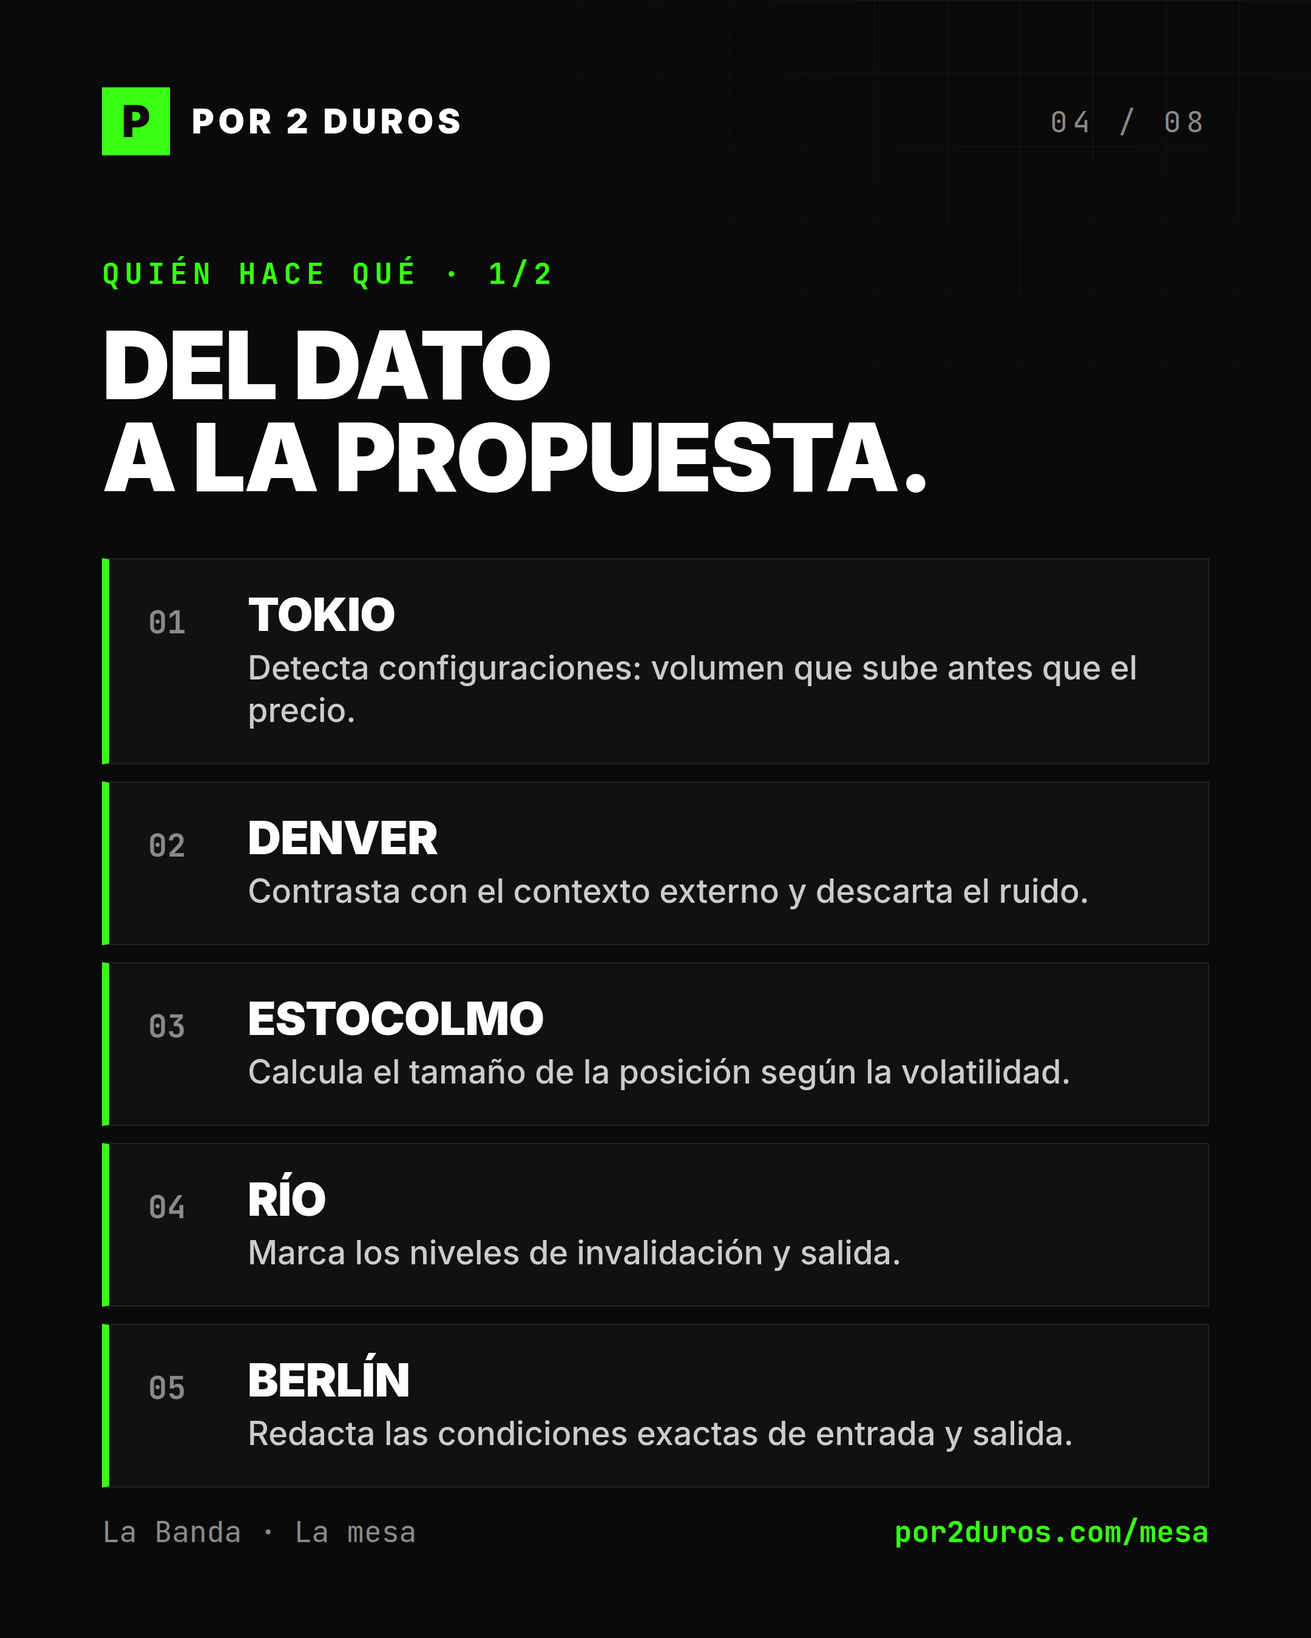
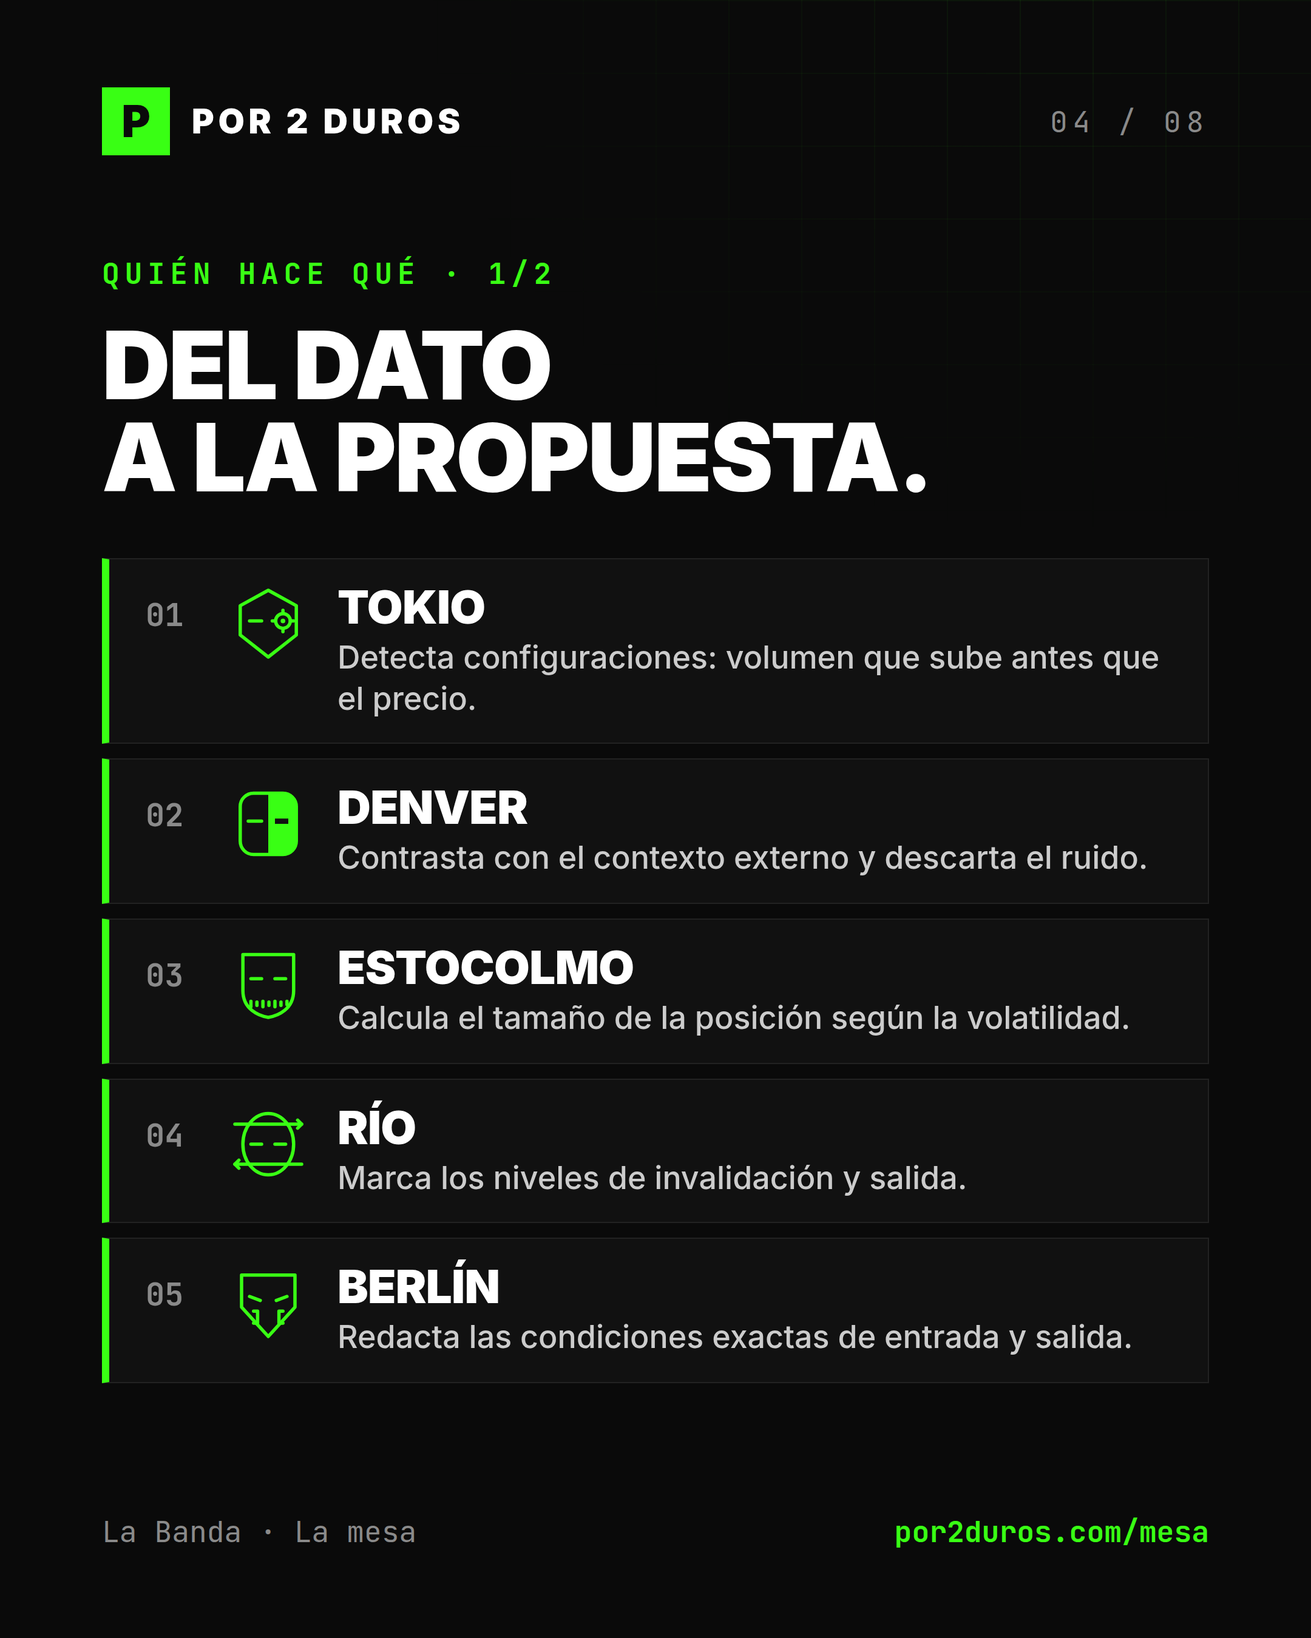
La Banda: avatares en el carrusel y en la escena de la cadena del reel
Claude-Session: https://claude.ai/code/session_015g1rGhkQ8F5aBGYVD3DwrU

diff --git a/marketing/la-banda/build/slides.html b/marketing/la-banda/build/slides.html
@@ -23,11 +23,12 @@
   .lead{font-size:36px;line-height:1.38;font-weight:500;color:var(--muted)}
   .neon{color:var(--neon)}
   .card{background:var(--card);border:1px solid var(--line)}
-  .rows{display:flex;flex-direction:column;gap:14px}
-  .row{display:flex;align-items:flex-start;gap:28px;padding:26px 32px;background:var(--card);border:1px solid var(--line);border-left:6px solid var(--neon)}
-  .row .n{font-family:"JetBrains Mono",monospace;font-weight:700;font-size:26px;color:var(--dim);width:54px;flex:none;padding-top:8px}
+  .rows{display:flex;flex-direction:column;gap:12px}
+  .row{display:flex;align-items:flex-start;gap:24px;padding:20px 30px;background:var(--card);border:1px solid var(--line);border-left:6px solid var(--neon)}
+  .row .n{font-family:"JetBrains Mono",monospace;font-weight:700;font-size:26px;color:var(--dim);width:44px;flex:none;padding-top:8px}
+  .row .av{width:66px;height:66px;flex:none;color:var(--neon)}
   .row .t{font-weight:900;font-size:38px;line-height:1.05;text-transform:uppercase;letter-spacing:-.01em}
-  .row .d{font-size:27px;margin-top:6px;color:var(--muted);font-weight:500;line-height:1.3}
+  .row .d{font-size:26px;margin-top:4px;color:var(--muted);font-weight:500;line-height:1.3}
   .tag{display:inline-block;font-family:"JetBrains Mono",monospace;font-size:22px;font-weight:700;letter-spacing:.12em;text-transform:uppercase;padding:10px 16px;border:1px solid var(--neon);color:var(--neon)}
   .btn{display:inline-block;padding:26px 44px;background:var(--neon);color:var(--bg);font-weight:900;font-size:34px;text-transform:uppercase;letter-spacing:.08em}
   .file{font-family:"JetBrains Mono",monospace;font-size:30px;line-height:1.6;padding:44px 48px;background:var(--card);border:1px solid var(--line)}
@@ -88,11 +89,11 @@
     <div class="kicker">Quién hace qué · 1/2</div>
     <div class="h1" style="font-size:78px;margin-top:22px">Del dato<br>a la propuesta.</div>
     <div class="rows" style="margin-top:44px">
-      <div class="row"><span class="n">01</span><div><div class="t">Tokio</div><div class="d">Detecta configuraciones: volumen que sube antes que el precio.</div></div></div>
-      <div class="row"><span class="n">02</span><div><div class="t">Denver</div><div class="d">Contrasta con el contexto externo y descarta el ruido.</div></div></div>
-      <div class="row"><span class="n">03</span><div><div class="t">Estocolmo</div><div class="d">Calcula el tamaño de la posición según la volatilidad.</div></div></div>
-      <div class="row"><span class="n">04</span><div><div class="t">Río</div><div class="d">Marca los niveles de invalidación y salida.</div></div></div>
-      <div class="row"><span class="n">05</span><div><div class="t">Berlín</div><div class="d">Redacta las condiciones exactas de entrada y salida.</div></div></div>
+      <div class="row"><span class="n">01</span><svg class="av" viewBox="0 0 120 120"><path fill="none" stroke="currentColor" stroke-width="5" stroke-linecap="round" stroke-linejoin="round" d="M60 10 L102 33 V77 L60 110 L18 77 V33 Z"/><path fill="none" stroke="currentColor" stroke-width="5" stroke-linecap="round" stroke-linejoin="round" d="M32 56 H50"/><circle fill="none" stroke="currentColor" stroke-width="5" stroke-linecap="round" stroke-linejoin="round" cx="82" cy="56" r="11"/><circle cx="82" cy="56" r="3.5" fill="currentColor"/><path fill="none" stroke="currentColor" stroke-width="5" stroke-linecap="round" stroke-linejoin="round" d="M82 40 v5 M82 67 v5 M66 56 h5 M93 56 h5"/></svg><div><div class="t">Tokio</div><div class="d">Detecta configuraciones: volumen que sube antes que el precio.</div></div></div>
+      <div class="row"><span class="n">02</span><svg class="av" viewBox="0 0 120 120"><rect fill="none" stroke="currentColor" stroke-width="5" stroke-linecap="round" stroke-linejoin="round" x="18" y="14" width="84" height="92" rx="20"/><path fill="currentColor" fill-rule="evenodd" d="M60 14 H82 A20 20 0 0 1 102 34 V86 A20 20 0 0 1 82 106 H60 Z M70 52 H90 V60 H70 Z"/><path fill="none" stroke="currentColor" stroke-width="5" stroke-linecap="round" stroke-linejoin="round" d="M30 56 H50"/></svg><div><div class="t">Denver</div><div class="d">Contrasta con el contexto externo y descarta el ruido.</div></div></div>
+      <div class="row"><span class="n">03</span><svg class="av" viewBox="0 0 120 120"><path fill="none" stroke="currentColor" stroke-width="5" stroke-linecap="round" stroke-linejoin="round" d="M22 16 H98 V70 C98 98 74 108 60 110 C46 108 22 98 22 70 Z"/><path fill="none" stroke="currentColor" stroke-width="5" stroke-linecap="round" stroke-linejoin="round" d="M34 52 H50 M70 52 H86"/><path fill="none" stroke="currentColor" stroke-width="5" stroke-linecap="round" stroke-linejoin="round" d="M34 94 v-8 M43 92 v-5 M52 94 v-8 M61 92 v-5 M70 94 v-8 M79 92 v-5 M88 91 v-5"/></svg><div><div class="t">Estocolmo</div><div class="d">Calcula el tamaño de la posición según la volatilidad.</div></div></div>
+      <div class="row"><span class="n">04</span><svg class="av" viewBox="0 0 120 120"><ellipse fill="none" stroke="currentColor" stroke-width="5" stroke-linecap="round" stroke-linejoin="round" cx="60" cy="60" rx="38" ry="46"/><path fill="none" stroke="currentColor" stroke-width="5" stroke-linecap="round" stroke-linejoin="round" d="M34 60 H50 M70 60 H86"/><path fill="none" stroke="currentColor" stroke-width="5" stroke-linecap="round" stroke-linejoin="round" d="M10 30 H110 M10 90 H110"/><path fill="none" stroke="currentColor" stroke-width="5" stroke-linecap="round" stroke-linejoin="round" d="M104 24 l6 6 -6 6 M16 84 l-6 6 6 6"/></svg><div><div class="t">Río</div><div class="d">Marca los niveles de invalidación y salida.</div></div></div>
+      <div class="row"><span class="n">05</span><svg class="av" viewBox="0 0 120 120"><path fill="none" stroke="currentColor" stroke-width="5" stroke-linecap="round" stroke-linejoin="round" d="M20 18 H100 V66 L60 110 L20 66 Z"/><path fill="none" stroke="currentColor" stroke-width="5" stroke-linecap="round" stroke-linejoin="round" d="M32 50 l16 6 M88 50 l-16 6"/><path fill="none" stroke="currentColor" stroke-width="5" stroke-linecap="round" stroke-linejoin="round" d="M38 72 H44 V90 H38 M82 72 H76 V90 H82"/></svg><div><div class="t">Berlín</div><div class="d">Redacta las condiciones exactas de entrada y salida.</div></div></div>
     </div>
   </div>
   <div class="pad bottom"><span>La Banda · La mesa</span><b>por2duros.com/mesa</b></div>
@@ -105,11 +106,11 @@
     <div class="kicker">Quién hace qué · 2/2</div>
     <div class="h1" style="font-size:78px;margin-top:22px">De la propuesta<br>a la orden.</div>
     <div class="rows" style="margin-top:36px;gap:12px">
-      <div class="row"><span class="n">06</span><div><div class="t">Lisboa</div><div class="d">Comprueba que los datos son frescos; si no, los devuelve.</div></div></div>
-      <div class="row"><span class="n">07</span><div><div class="t">Nairobi</div><div class="d">Comprime todo en un brief de una página.</div></div></div>
-      <div class="row" style="border-left-color:var(--rojo)"><span class="n">08</span><div><div class="t">Palermo <span class="tag" style="font-size:18px;padding:6px 12px;vertical-align:middle;border-color:var(--rojo);color:var(--rojo)">Veto</span></div><div class="d">Veta si falta liquidez, invalidación o brief. Sin su sí, no hay orden.</div></div></div>
-      <div class="row"><span class="n">09</span><div><div class="t">Helsinki</div><div class="d">Registra cada orden y cada cambio en el libro.</div></div></div>
-      <div class="row"><span class="n">10</span><div><div class="t">Profesor</div><div class="d">Cierra la sesión y redacta el informe. Siempre.</div></div></div>
+      <div class="row"><span class="n">06</span><svg class="av" viewBox="0 0 120 120"><circle fill="none" stroke="currentColor" stroke-width="5" stroke-linecap="round" stroke-linejoin="round" cx="60" cy="60" r="46"/><circle fill="none" stroke="currentColor" stroke-width="5" stroke-linecap="round" stroke-linejoin="round" cx="60" cy="38" r="12"/><path fill="none" stroke="#FFC93B" stroke-width="5" stroke-linecap="round" d="M60 38 V29 M60 38 H67"/><path fill="none" stroke="currentColor" stroke-width="5" stroke-linecap="round" stroke-linejoin="round" d="M34 70 H50 M70 70 H86"/></svg><div><div class="t">Lisboa</div><div class="d">Comprueba que los datos son frescos; si no, los devuelve.</div></div></div>
+      <div class="row"><span class="n">07</span><svg class="av" viewBox="0 0 120 120"><path fill="none" stroke="currentColor" stroke-width="5" stroke-linecap="round" stroke-linejoin="round" d="M28 12 H78 L94 28 V108 H28 Z"/><path fill="none" stroke="currentColor" stroke-width="5" stroke-linecap="round" stroke-linejoin="round" d="M78 12 V28 H94"/><path fill="none" stroke="currentColor" stroke-width="5" stroke-linecap="round" stroke-linejoin="round" d="M38 50 H52 M68 50 H82"/><path fill="none" stroke="currentColor" stroke-width="5" stroke-linecap="round" stroke-linejoin="round" d="M40 74 H80 M40 86 H80 M40 98 H64"/></svg><div><div class="t">Nairobi</div><div class="d">Comprime todo en un brief de una página.</div></div></div>
+      <div class="row" style="border-left-color:var(--rojo)"><span class="n">08</span><svg class="av" viewBox="0 0 120 120"><path fill="none" stroke="currentColor" stroke-width="5" stroke-linecap="round" stroke-linejoin="round" d="M34 14 H86 L106 34 V86 L86 106 H34 L14 86 V34 Z"/><path fill="none" stroke="currentColor" stroke-width="5" stroke-linecap="round" stroke-linejoin="round" d="M32 50 H50 M70 50 H88"/><path fill="none" stroke="#FF3B3B" stroke-width="7" stroke-linecap="round" d="M42 72 L78 96 M78 72 L42 96"/></svg><div><div class="t">Palermo <span class="tag" style="font-size:18px;padding:6px 12px;vertical-align:middle;border-color:var(--rojo);color:var(--rojo)">Veto</span></div><div class="d">Veta si falta liquidez, invalidación o brief. Sin su sí, no hay orden.</div></div></div>
+      <div class="row"><span class="n">09</span><svg class="av" viewBox="0 0 120 120"><rect fill="none" stroke="currentColor" stroke-width="5" stroke-linecap="round" stroke-linejoin="round" x="20" y="12" width="80" height="96" rx="6"/><path fill="none" stroke="currentColor" stroke-width="5" stroke-linecap="round" stroke-linejoin="round" d="M20 44 H100 M20 60 H100 M20 76 H100 M20 92 H100 M36 44 V108"/><path fill="none" stroke="currentColor" stroke-width="5" stroke-linecap="round" stroke-linejoin="round" d="M34 28 H48 M72 28 H86"/></svg><div><div class="t">Helsinki</div><div class="d">Registra cada orden y cada cambio en el libro.</div></div></div>
+      <div class="row"><span class="n">10</span><svg class="av" viewBox="0 0 120 120"><rect fill="none" stroke="currentColor" stroke-width="5" stroke-linecap="round" stroke-linejoin="round" x="16" y="14" width="88" height="92" rx="30"/><circle fill="none" stroke="currentColor" stroke-width="5" stroke-linecap="round" stroke-linejoin="round" cx="42" cy="56" r="13"/><circle fill="none" stroke="currentColor" stroke-width="5" stroke-linecap="round" stroke-linejoin="round" cx="78" cy="56" r="13"/><path fill="none" stroke="currentColor" stroke-width="5" stroke-linecap="round" stroke-linejoin="round" d="M55 56 H65 M29 54 H16 M91 54 H104"/><path fill="none" stroke="currentColor" stroke-width="5" stroke-linecap="round" stroke-linejoin="round" d="M50 88 H70"/></svg><div><div class="t">Profesor</div><div class="d">Cierra la sesión y redacta el informe. Siempre.</div></div></div>
     </div>
   </div>
   <div class="pad bottom"><span>La Banda · La mesa</span><b>por2duros.com/mesa</b></div>

diff --git a/marketing/la-banda/build/reel.html b/marketing/la-banda/build/reel.html
@@ -45,9 +45,11 @@
   #s3 .h1{font-size:84px;margin-top:20px}
   #chain{position:absolute;left:72px;right:72px;top:520px;display:flex;flex-direction:column;gap:10px}
   .ag{display:flex;align-items:center;gap:24px;height:106px;padding:0 30px;background:var(--card);border:1px solid var(--line);border-left:6px solid #333;opacity:.32}
-  .ag .n{font-family:"JetBrains Mono",monospace;font-size:24px;color:var(--dim);width:46px}
-  .ag .name{font-weight:900;font-size:38px;text-transform:uppercase;width:280px;letter-spacing:-.01em}
-  .ag .role{font-family:"JetBrains Mono",monospace;font-size:24px;color:var(--muted);flex:1;max-width:320px}
+  .ag .n{font-family:"JetBrains Mono",monospace;font-size:24px;color:var(--dim);width:40px}
+  .ag .av{width:64px;height:64px;flex:none;color:#8A8A8A}
+  .ag.on .av,.ag.done .av{color:var(--neon)}
+  .ag .name{font-weight:900;font-size:36px;text-transform:uppercase;width:250px;letter-spacing:-.01em}
+  .ag .role{font-family:"JetBrains Mono",monospace;font-size:23px;line-height:1.2;color:var(--muted);flex:1;max-width:215px}
   .ag.on{opacity:1;border-left-color:var(--neon)}
   .ag.on .name{color:var(--neon)}
   .ag.done{opacity:.85;border-left-color:var(--neon)}
@@ -116,16 +118,16 @@
       <div class="h1">Un trabajo<br>cada uno.</div>
     </div>
     <div id="chain">
-      <div class="ag"><span class="n">01</span><span class="name">Tokio</span><span class="role">busca el setup</span></div>
-      <div class="ag"><span class="n">02</span><span class="name">Denver</span><span class="role">contrasta el contexto</span></div>
-      <div class="ag"><span class="n">03</span><span class="name">Estocolmo</span><span class="role">dimensiona la posición</span></div>
-      <div class="ag"><span class="n">04</span><span class="name">Río</span><span class="role">fija stop y objetivo</span></div>
-      <div class="ag"><span class="n">05</span><span class="name">Berlín</span><span class="role">redacta las condiciones</span></div>
-      <div class="ag"><span class="n">06</span><span class="name">Lisboa</span><span class="role">comprueba la frescura</span></div>
-      <div class="ag"><span class="n">07</span><span class="name">Nairobi</span><span class="role">resume en una página</span></div>
-      <div class="ag"><span class="n">08</span><span class="name">Palermo</span><span class="role">veta o aprueba</span></div>
-      <div class="ag"><span class="n">09</span><span class="name">Helsinki</span><span class="role">registra la orden</span></div>
-      <div class="ag"><span class="n">10</span><span class="name">Profesor</span><span class="role">cierra e informa</span></div>
+      <div class="ag"><span class="n">01</span><svg class="av" viewBox="0 0 120 120"><path fill="none" stroke="currentColor" stroke-width="5" stroke-linecap="round" stroke-linejoin="round" d="M60 10 L102 33 V77 L60 110 L18 77 V33 Z"/><path fill="none" stroke="currentColor" stroke-width="5" stroke-linecap="round" stroke-linejoin="round" d="M32 56 H50"/><circle fill="none" stroke="currentColor" stroke-width="5" stroke-linecap="round" stroke-linejoin="round" cx="82" cy="56" r="11"/><circle cx="82" cy="56" r="3.5" fill="currentColor"/><path fill="none" stroke="currentColor" stroke-width="5" stroke-linecap="round" stroke-linejoin="round" d="M82 40 v5 M82 67 v5 M66 56 h5 M93 56 h5"/></svg><span class="name">Tokio</span><span class="role">busca el setup</span></div>
+      <div class="ag"><span class="n">02</span><svg class="av" viewBox="0 0 120 120"><rect fill="none" stroke="currentColor" stroke-width="5" stroke-linecap="round" stroke-linejoin="round" x="18" y="14" width="84" height="92" rx="20"/><path fill="currentColor" fill-rule="evenodd" d="M60 14 H82 A20 20 0 0 1 102 34 V86 A20 20 0 0 1 82 106 H60 Z M70 52 H90 V60 H70 Z"/><path fill="none" stroke="currentColor" stroke-width="5" stroke-linecap="round" stroke-linejoin="round" d="M30 56 H50"/></svg><span class="name">Denver</span><span class="role">contrasta el contexto</span></div>
+      <div class="ag"><span class="n">03</span><svg class="av" viewBox="0 0 120 120"><path fill="none" stroke="currentColor" stroke-width="5" stroke-linecap="round" stroke-linejoin="round" d="M22 16 H98 V70 C98 98 74 108 60 110 C46 108 22 98 22 70 Z"/><path fill="none" stroke="currentColor" stroke-width="5" stroke-linecap="round" stroke-linejoin="round" d="M34 52 H50 M70 52 H86"/><path fill="none" stroke="currentColor" stroke-width="5" stroke-linecap="round" stroke-linejoin="round" d="M34 94 v-8 M43 92 v-5 M52 94 v-8 M61 92 v-5 M70 94 v-8 M79 92 v-5 M88 91 v-5"/></svg><span class="name">Estocolmo</span><span class="role">dimensiona la posición</span></div>
+      <div class="ag"><span class="n">04</span><svg class="av" viewBox="0 0 120 120"><ellipse fill="none" stroke="currentColor" stroke-width="5" stroke-linecap="round" stroke-linejoin="round" cx="60" cy="60" rx="38" ry="46"/><path fill="none" stroke="currentColor" stroke-width="5" stroke-linecap="round" stroke-linejoin="round" d="M34 60 H50 M70 60 H86"/><path fill="none" stroke="currentColor" stroke-width="5" stroke-linecap="round" stroke-linejoin="round" d="M10 30 H110 M10 90 H110"/><path fill="none" stroke="currentColor" stroke-width="5" stroke-linecap="round" stroke-linejoin="round" d="M104 24 l6 6 -6 6 M16 84 l-6 6 6 6"/></svg><span class="name">Río</span><span class="role">fija stop y objetivo</span></div>
+      <div class="ag"><span class="n">05</span><svg class="av" viewBox="0 0 120 120"><path fill="none" stroke="currentColor" stroke-width="5" stroke-linecap="round" stroke-linejoin="round" d="M20 18 H100 V66 L60 110 L20 66 Z"/><path fill="none" stroke="currentColor" stroke-width="5" stroke-linecap="round" stroke-linejoin="round" d="M32 50 l16 6 M88 50 l-16 6"/><path fill="none" stroke="currentColor" stroke-width="5" stroke-linecap="round" stroke-linejoin="round" d="M38 72 H44 V90 H38 M82 72 H76 V90 H82"/></svg><span class="name">Berlín</span><span class="role">redacta las condiciones</span></div>
+      <div class="ag"><span class="n">06</span><svg class="av" viewBox="0 0 120 120"><circle fill="none" stroke="currentColor" stroke-width="5" stroke-linecap="round" stroke-linejoin="round" cx="60" cy="60" r="46"/><circle fill="none" stroke="currentColor" stroke-width="5" stroke-linecap="round" stroke-linejoin="round" cx="60" cy="38" r="12"/><path fill="none" stroke="#FFC93B" stroke-width="5" stroke-linecap="round" d="M60 38 V29 M60 38 H67"/><path fill="none" stroke="currentColor" stroke-width="5" stroke-linecap="round" stroke-linejoin="round" d="M34 70 H50 M70 70 H86"/></svg><span class="name">Lisboa</span><span class="role">comprueba la frescura</span></div>
+      <div class="ag"><span class="n">07</span><svg class="av" viewBox="0 0 120 120"><path fill="none" stroke="currentColor" stroke-width="5" stroke-linecap="round" stroke-linejoin="round" d="M28 12 H78 L94 28 V108 H28 Z"/><path fill="none" stroke="currentColor" stroke-width="5" stroke-linecap="round" stroke-linejoin="round" d="M78 12 V28 H94"/><path fill="none" stroke="currentColor" stroke-width="5" stroke-linecap="round" stroke-linejoin="round" d="M38 50 H52 M68 50 H82"/><path fill="none" stroke="currentColor" stroke-width="5" stroke-linecap="round" stroke-linejoin="round" d="M40 74 H80 M40 86 H80 M40 98 H64"/></svg><span class="name">Nairobi</span><span class="role">resume en una página</span></div>
+      <div class="ag"><span class="n">08</span><svg class="av" viewBox="0 0 120 120"><path fill="none" stroke="currentColor" stroke-width="5" stroke-linecap="round" stroke-linejoin="round" d="M34 14 H86 L106 34 V86 L86 106 H34 L14 86 V34 Z"/><path fill="none" stroke="currentColor" stroke-width="5" stroke-linecap="round" stroke-linejoin="round" d="M32 50 H50 M70 50 H88"/><path fill="none" stroke="#FF3B3B" stroke-width="7" stroke-linecap="round" d="M42 72 L78 96 M78 72 L42 96"/></svg><span class="name">Palermo</span><span class="role">veta o aprueba</span></div>
+      <div class="ag"><span class="n">09</span><svg class="av" viewBox="0 0 120 120"><rect fill="none" stroke="currentColor" stroke-width="5" stroke-linecap="round" stroke-linejoin="round" x="20" y="12" width="80" height="96" rx="6"/><path fill="none" stroke="currentColor" stroke-width="5" stroke-linecap="round" stroke-linejoin="round" d="M20 44 H100 M20 60 H100 M20 76 H100 M20 92 H100 M36 44 V108"/><path fill="none" stroke="currentColor" stroke-width="5" stroke-linecap="round" stroke-linejoin="round" d="M34 28 H48 M72 28 H86"/></svg><span class="name">Helsinki</span><span class="role">registra la orden</span></div>
+      <div class="ag"><span class="n">10</span><svg class="av" viewBox="0 0 120 120"><rect fill="none" stroke="currentColor" stroke-width="5" stroke-linecap="round" stroke-linejoin="round" x="16" y="14" width="88" height="92" rx="30"/><circle fill="none" stroke="currentColor" stroke-width="5" stroke-linecap="round" stroke-linejoin="round" cx="42" cy="56" r="13"/><circle fill="none" stroke="currentColor" stroke-width="5" stroke-linecap="round" stroke-linejoin="round" cx="78" cy="56" r="13"/><path fill="none" stroke="currentColor" stroke-width="5" stroke-linecap="round" stroke-linejoin="round" d="M55 56 H65 M29 54 H16 M91 54 H104"/><path fill="none" stroke="currentColor" stroke-width="5" stroke-linecap="round" stroke-linejoin="round" d="M50 88 H70"/></svg><span class="name">Profesor</span><span class="role">cierra e informa</span></div>
       <div id="file">▮ fichero</div>
     </div>
     <div class="lead">No comparten memoria: solo se pasan un fichero con remitente, destinatario, carga y motivo.</div>
